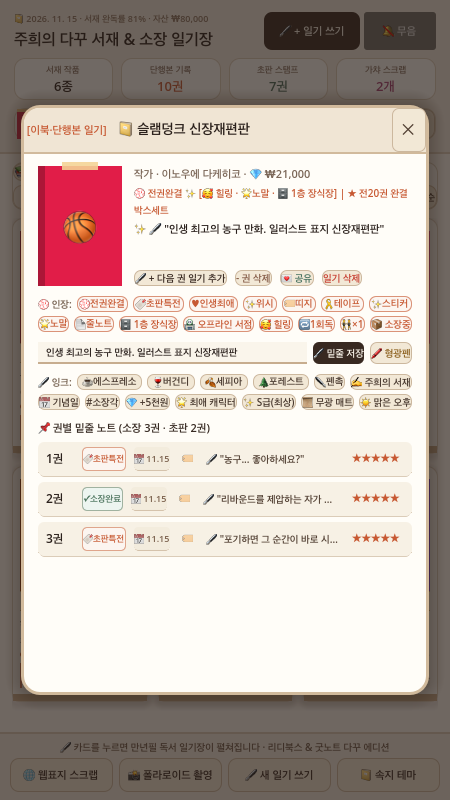
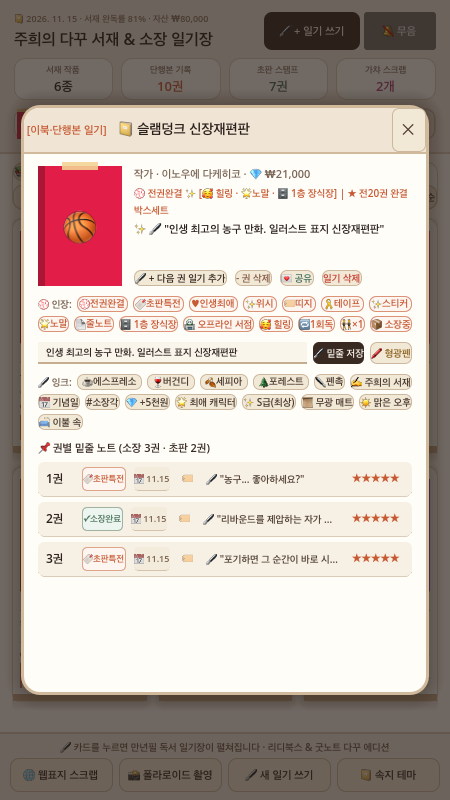
feat(game02): Sprint 44 reading spot stamp & weather/spot search integration

Changed region(s): [[0.0622, 0.5, 0.7467, 0.7188], [0.7778, 0.5625, 0.9022, 0.7188]]

diff --git a/game02/index.html b/game02/index.html
@@ -301,6 +301,7 @@
                             <button id="condition-cycle-btn" onclick="cycleConditionGrade()" class="px-2 py-1 rounded-lg bg-[#efe7da] hover:bg-[#e2d6c5] text-[#2c221e] text-[10px] font-bold cursor-pointer">✨ S급(최상)</button>
                             <button id="finish-cycle-btn" onclick="cycleCoverFinish()" class="px-2 py-1 rounded-lg bg-[#efe7da] hover:bg-[#e2d6c5] text-[#2c221e] text-[10px] font-bold cursor-pointer">📜 무광 매트</button>
                             <button id="weather-cycle-btn" onclick="cycleReadingWeather()" class="px-2 py-1 rounded-lg bg-[#efe7da] hover:bg-[#e2d6c5] text-[#2c221e] text-[10px] font-bold cursor-pointer">☀ 맑은 오후</button>
+                            <button id="spot-cycle-btn" onclick="cycleReadingSpot()" class="px-2 py-1 rounded-lg bg-[#efe7da] hover:bg-[#e2d6c5] text-[#2c221e] text-[10px] font-bold cursor-pointer">🛋 이불 속</button>
                             <button onclick="copyBookQuoteCard()" class="px-2 py-1 rounded-lg bg-[#efe7da] hover:bg-[#e2d6c5] text-[#2c221e] text-[10px] font-bold cursor-pointer">💌 감상 카드 공유</button>
                             <button onclick="closeJournalModal()" class="w-7 h-7 rounded-full bg-[#efe7da] hover:bg-[#e2d6c5] text-[#5c4938] text-xs font-bold cursor-pointer">✕</button>
                         </div>
@@ -503,7 +504,7 @@
                 else if (currentCat === 'complete') cMatch = it.stamp === '전권완결' || (it.volumes && it.volumes.length >= 2);
                 else if (currentCat === 'fav') cMatch = it.stamp === '인생최애' || (it.volumes && it.volumes.every(v => v.rating === 5));
 
-                const qMatch = !q || it.title.toLowerCase().includes(q) || it.author.toLowerCase().includes(q) || it.memo.toLowerCase().includes(q) || (it.custom_tag || '').toLowerCase().includes(q) || (it.storage_location || '').toLowerCase().includes(q) || (it.acquisition_source || '').toLowerCase().includes(q) || (it.favorite_character || '').toLowerCase().includes(q) || (it.condition_grade || '').toLowerCase().includes(q) || (it.cover_finish || '').toLowerCase().includes(q);
+                const qMatch = !q || it.title.toLowerCase().includes(q) || it.author.toLowerCase().includes(q) || it.memo.toLowerCase().includes(q) || (it.custom_tag || '').toLowerCase().includes(q) || (it.storage_location || '').toLowerCase().includes(q) || (it.acquisition_source || '').toLowerCase().includes(q) || (it.favorite_character || '').toLowerCase().includes(q) || (it.condition_grade || '').toLowerCase().includes(q) || (it.cover_finish || '').toLowerCase().includes(q) || (it.reading_weather || '').toLowerCase().includes(q) || (it.reading_spot || '').toLowerCase().includes(q);
                 return cMatch && qMatch;
             });
 
@@ -639,6 +640,8 @@
             if (finBtn) finBtn.textContent = item.cover_finish || '📜 무광 매트';
             const wBtn = document.getElementById('weather-cycle-btn');
             if (wBtn) wBtn.textContent = item.reading_weather || '☀ 맑은 오후';
+            const spBtn = document.getElementById('spot-cycle-btn');
+            if (spBtn) spBtn.textContent = item.reading_spot || '🛋 이불 속';
             document.getElementById('diary-stamp').textContent = `💮 ${item.stamp} ${sticker} [${item.reading_mood || '🥰 힐링'} · ${rTier} · ${loc}]`;
             document.getElementById('journal-modal').classList.remove('hidden');
         }
@@ -770,6 +773,17 @@
             item.reading_weather = WEATHER_PRESETS[(idx + 1) % WEATHER_PRESETS.length];
             const btn = document.getElementById('weather-cycle-btn');
             if (btn) btn.textContent = item.reading_weather;
+        }
+
+        const SPOT_PRESETS = ["🛋 이불 속", "☕ 북카페", "🪑 내 방 책상", "🚃 출퇴근길"];
+        function cycleReadingSpot() {
+            const item = ITEMS.find(x => x.id === activeId);
+            if (!item) return;
+            const cur = item.reading_spot || "🛋 이불 속";
+            const idx = SPOT_PRESETS.indexOf(cur);
+            item.reading_spot = SPOT_PRESETS[(idx + 1) % SPOT_PRESETS.length];
+            const btn = document.getElementById('spot-cycle-btn');
+            if (btn) btn.textContent = item.reading_spot;
         }
 
         const SOURCE_PRESETS = ["🏪 오프라인 서점", "🇯🇵 직구/해외", "🎁 선물", "🎪 팝업/행사", "📦 온라인 서점"];

diff --git a/game02/SPRINT_LOG.md b/game02/SPRINT_LOG.md
@@ -5,6 +5,21 @@
 
 ---
 
+## 🚀 [Sprint 44] 독서 장소 스팟 스탬프(`🛋 이불 속` / `cycle_reading_spot`), 날씨·장소 통합 검색 & 모달 재오픈 시 표지 질감 광택 유지
+- **날짜/시각**: 2026-11-15 22:39 (자동 스프린트)
+- **참여 스쿼드**: 14인 애자일 스쿼드 전원 (다꾸러 3인, PO/기획 2인, UX/UI 2인, 개발 4인, QA 2인, CEO 1인)
+- **핵심 VOC 및 기획 확정**:
+  1. **다꾸러 VOC #1 ("이 책을 어디서 읽었는지 장소도 스탬프로 남기고 싶어요!")**: 만화책이나 소설을 읽을 때 날씨(`☀ 맑은 오후`)와 함께 **독서 장소 스팟(`🛋 이불 속`, `☕ 북카페`, `🪑 내 방 책상`, `🚃 출퇴근길`)**을 원터치로 순환 기록하고 JSON 영속성까지 보존하도록 `SpotBtn` 및 `reading_spot` 필드를 추가.
+  2. **다꾸러 VOC #2 ("날씨나 장소 스탬프로도 내 서재를 바로 검색하고 싶어요")**: `ArchiveState.get_filtered_items()` 검색 쿼리가 `reading_weather`와 `reading_spot`까지 함께 매칭하도록 확장하여 `"북카페"`, `"비 오는 밤"` 같은 감성 키워드 검색을 지원.
+  3. **UX/UI 개선 ("모달을 닫았다가 다시 열어도 표지 마감 질감 광택이 그대로 유지되어야 해요")**: `detail_modal.gd`의 `open(item)` 시점에 `_apply_cover_finish_style()`을 명시적으로 호출해 모달 재오픈 시에도 표지 질감(`✨ 유광 라미네이팅`, `📜 매트 질감`, `🌟 홀로그램 코팅`, `🧶 패브릭 린넨`) 광택이 즉시 복원되도록 개선.
+- **구현 및 검증 내역**:
+  - `collection_item.gd`, `archive_state.gd`: `reading_spot` 필드(`"🛋 이불 속"` 기본값), `cycle_reading_spot()`, `to_dict()`/`load_from_file()` JSON 직렬화 및 날씨·장소 통합 검색 필터 구현.
+  - `detail_modal.tscn`, `detail_modal.gd`: `InkRow`(`HFlowContainer`) 내 `SpotBtn` 배치, `cycle_reading_spot()` 시그널 연결 및 `open()` 시 `_apply_cover_finish_style()` 호출 적용.
+  - `game02/index.html`: `#spot-cycle-btn` / `cycleReadingSpot()` 및 `reading_weather`·`reading_spot` 검색 매칭 동기화.
+  - `tests/test_main_integration.gd`: Sprint 44 통합 테스트(`Reading Spot Stamp & Weather/Spot Search Integration verified`) 추가 후 3대 헤드리스 테스트(`test_archive`, `test_persistence`, `test_main_integration`) 100% 통과 및 Metal 4.0 스크린샷(`godot_app_screen.png`, `godot_modal_screen.png`) 캡처 완료.
+
+---
+
 ## 🚀 [Sprint 43] 감성 독서 날씨 스탬프(`☀ 맑은 오후` / `cycle_reading_weather`) & 표지 마감 질감 실시간 2.5D 광택 반영
 - **시각**: 2026-11-15 22:19 KST
 - **1. 다꾸러 3인 VOC (수집러 A · 가챠러 B · 미니멀러 C)**
